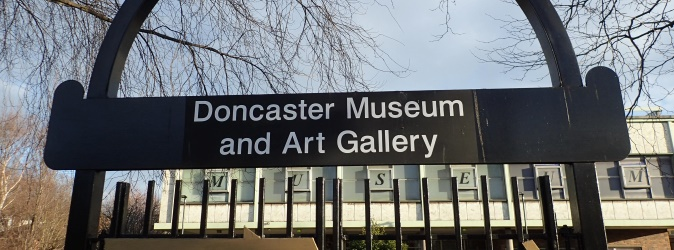
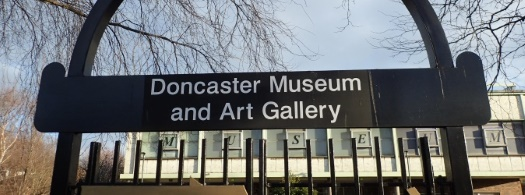
Image widths and edits to Insight links

diff --git a/_posts/2015-02-19-estimating-software-development-time.md b/_posts/2015-02-19-estimating-software-development-time.md
@@ -8,7 +8,7 @@ tags:
 
 by Joe Collins
 
-"When can be launch?"  It is often the first question a manager or client asks.  Put another way, "How long will it take to write this software?"  While trying to answer this question for the [Insight](/insight) project, it got me to wondering, why does the question cause so much tension and so many problems in software development?  It is such a reasonable question.  You wouldn’t expect there to be a problem for a ship builder to give you a launch date or for a house builder to tell you when you can have the key to your house.  
+"When can be launch?"  It is often the first question a manager or client asks.  Put another way, "How long will it take to write this software?"  While trying to answer this question for the [Insight](https://insight.blackradley.com) project, it got me to wondering, why does the question cause so much tension and so many problems in software development?  It is such a reasonable question.  You wouldn’t expect there to be a problem for a ship builder to give you a launch date or for a house builder to tell you when you can have the key to your house.  
 
 To explain software development to ourselves and our managers we often turn to analogies, typically construction and engineering analogies. Whilst an analogy can be useful since it makes it easy to get an idea across quickly, all analogies are inherently flawed simply because they are analogies and not descriptions of real thing.  Since much of software development is a virtual we use a lot of analogies.  The preponderance of engineering analogies in software development is a problem because it gives the appearance that software development is like building a boat or a house.  
 

diff --git a/_posts/2015-06-01-museum-pay-barriers-and-spending.md b/_posts/2015-06-01-museum-pay-barriers-and-spending.md
@@ -9,7 +9,7 @@ tags:
 
 By Joe Collins
 
-The preliminary analysis of our [Insight](/insight) data looked at what predicts retail spend per visitor in a museum.  Where the shop is behind a pay barrier (visitors have to pay to enter before they can visit the shop) retail spend per visitor is higher.  This might be considered a little surprising.  One might have thought that visitors who have paid to enter would be reluctant to spend more money having just paid to enter.
+The preliminary analysis of our [Insight](https://insight.blackradley.com) data looked at what predicts retail spend per visitor in a museum.  Where the shop is behind a pay barrier (visitors have to pay to enter before they can visit the shop) retail spend per visitor is higher.  This might be considered a little surprising.  One might have thought that visitors who have paid to enter would be reluctant to spend more money having just paid to enter.
 
 It is hard to know why this might be the case.  It could be that the pay barrier is simply acting as a filter for visitors who are more willing to spend money.  Another possibility is that having paid to enter, visitors are placing more value on the whole experience including the shop.  As far back as 1966 Freedman and Fraser demonstrated that people tend to behave in ways which are consistent with previous behavior.  Freedman and Fraser found that householders were much more willing to have a sign on their front lawn if they previously agreed to have a sign in their front window.
 

diff --git a/_posts/2015-06-15-parks-and-food.md b/_posts/2015-06-15-parks-and-food.md
@@ -1,0 +1,16 @@
+---
+layout: default
+tags:
+- Museums
+- Insight
+- Collins
+---
+# {{ page.title }}
+
+By Joe Collins
+
+Our analysis of café income per visitor showed that for heritage sites which include a country park spend goes up.
+
+The first thought is that all that fresh air is good for the appetite so visitors eat more.  This might be the case but we have to be aware there may be a range of other reasons.  Visits to heritage sites with parks might attract visitors that have different intentions.  They might be visiting specifically to eat and are hungry before they arrive.
+
+For heritage sites it is important to appreciate how their offer attracts different types of visitors, including those elements of the site which are traditionally been as being outside the ‘core’ of objects and exhibits, and affects the behavior of those visitors.  Playing to those dispositions is likely to generate more income that trying to attract other types of visitors or inspire other behaviours.  In terms of the future sustainability of particular institutions, there may be a need to revisit the concept of core purpose and to express this in new terms.

diff --git a/_posts/2014-12-02-SSL-made-easy.md b/_posts/2014-12-02-SSL-made-easy.md
@@ -8,7 +8,7 @@ tags:
 
 By Joe Collins
 
-Our [Insight](/insight) web application needs to use SSL (Secure Sockets Layer) because the data we are gathering is valuable and needs to be protected.  But also, Google deliberately favors websites that use SSL as part of company policy to make the internet safer, so using SSL will improve the web applications search ranking.
+Our [Insight](https://insight.blackradley.com) web application needs to use SSL (Secure Sockets Layer) because the data we are gathering is valuable and needs to be protected.  But also, Google deliberately favors websites that use SSL as part of company policy to make the internet safer, so using SSL will improve the web applications search ranking.
 
 Traditionally setting up SSL certificates has always been a rather irksome task.  There are a number of arcane steps that need to be taken to acquire and set up an SSL certificate on the web server.  For this reason the web application developers had been avoiding the task and pushing it back to nearer the go live date.
 

diff --git a/_posts/2014-09-22-project-management-with-redmine.md b/_posts/2014-09-22-project-management-with-redmine.md
@@ -8,7 +8,7 @@ tags:
 
 By Joe Collins
 
-At the first [Insight](/insight) project meeting it was clear we needed a collaborative project management system.  The Insight Team has adopted [Planio](https://plan.io/) which is a hosted version of the open source project, [Redmine](http://www.redmine.org/). 
+At the first [Insight](https://insight.blackradley.com) project meeting it was clear we needed a collaborative project management system.  The Insight Team has adopted [Planio](https://plan.io/) which is a hosted version of the open source project, [Redmine](http://www.redmine.org/). 
 
 Within the first couple of weeks of the project it was clear that we needed better systems for managing the project.  The usual combination of Microsoft Excel and Project is fine for hierarchical and single organization projects, but inappropriate for a collaborative and multi organization project.  We needed something which the entire team could use and which allowed us to audit changes and revisions to the project schedule.  
 

diff --git a/_posts/2015-05-01-cafes-and-museums.md b/_posts/2015-05-01-cafes-and-museums.md
@@ -1,0 +1,16 @@
+---
+layout: default
+tags:
+- Museums
+- Insight
+- Collins
+---
+# {{ page.title }}
+
+By Joe Collins
+
+The preliminary analysis of our data [Insight](https://insight.blackradley.com/) started by focusing on the factors which most influence the number of visitors to a heritage site.  Two of the most important factors are having a museum and providing refreshments. 
+
+It seems that heritage visitors really are attracted the combination of a museum and café.  The V&A weren't wrong when they described themselves in their 1980's advertising campaign as "An ace caff with quite a nice museum attached".
+
+If you have ever visited a museum you might say that this is obvious.  The museum and café are key parts of the visitor experience.  However for museums struggling to make ends meet it is tempting to diversify.  This finding confirms and quantifies the value of museums' core offering, although we may also need to refine our understanding of what that 'core' is.

diff --git a/_posts/2016-09-27-the-atkinson-southport.md b/_posts/2016-09-27-the-atkinson-southport.md
@@ -10,6 +10,10 @@ By Joe Collins
 
 ![The Atkinson](/img/TheAtkinson.jpg)
 
-Visiting the Atkinson in Southport today.
+Visiting the Atkinson in Southport today to look at museum affordances and hindrances to commercial performance.
 
-Affordance
+The Atkinson represents a positive attempt to blend commericial opportunities with a museum and library.  The entrance is level and the opportunities for shopping and refreshment are obvious from the outside.  The foyer attempts to seamlessly join the shop, cafe and entrance.  The museum and the library draw visitors through the foyer.  
+
+The sausage rolls aren't bad either.
+
+![Sausage Roll](/img/TheAtkinsonFood.jpg)

diff --git a/_posts/2017-04-04-hacking-at-shrewsbury-museum.md b/_posts/2017-04-04-hacking-at-shrewsbury-museum.md
@@ -1,0 +1,15 @@
+---
+layout: default
+tags:
+- IT
+- Insight
+- Museums
+- Collins
+---
+# {{ page.title }}
+
+By Joe Collins
+
+![Shrewsbury Museum](/img/ShrewsburyMuseum.jpg)
+
+This week the Black Radley development team are working with a team from Microsoft at [Shrewbury Musuem and Art Gallery](http://www.shrewsburymuseum.org.uk/) for a week long hack.  The goal is a use facial recognition software to

diff --git a/_posts/2017-01-14-doncaster-museum.md b/_posts/2017-01-14-doncaster-museum.md
@@ -10,3 +10,7 @@ By Joe Collins
 
 ![Doncaster Museum](/img/DoncasterMuseum.jpg)
 
+Visiting the Doncaster Museum and Gallery today to look at museum affordances and hindrances to commercial performance.
+
+The museum is in a tough site.  It is on the edge of Doncaster's central area and the entrance is set back from the street.  
+

diff --git a/README.md b/README.md
@@ -1,7 +1,11 @@
-Black Radley Website
-====================
+# Black Radley Website
 
-Uses:
+
+## Uses
 
 * https://bootswatch.com/flatly/
 * https://blog.brandonparsons.me/2015-using-tags-in-a-jekyll-blog-on-github-pages
+
+## Notes
+
+* Images in posts maximum of 525 pixels wide.
